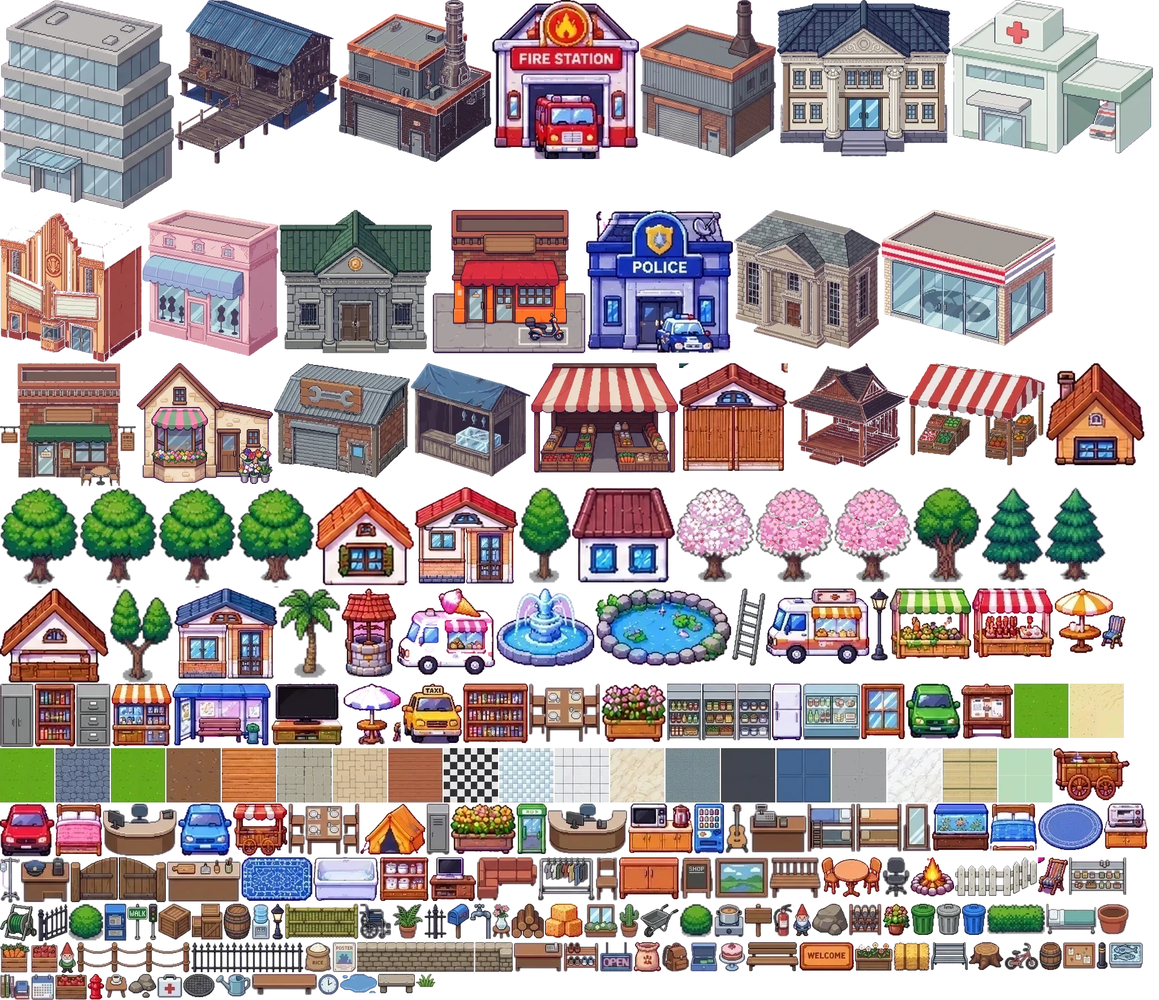
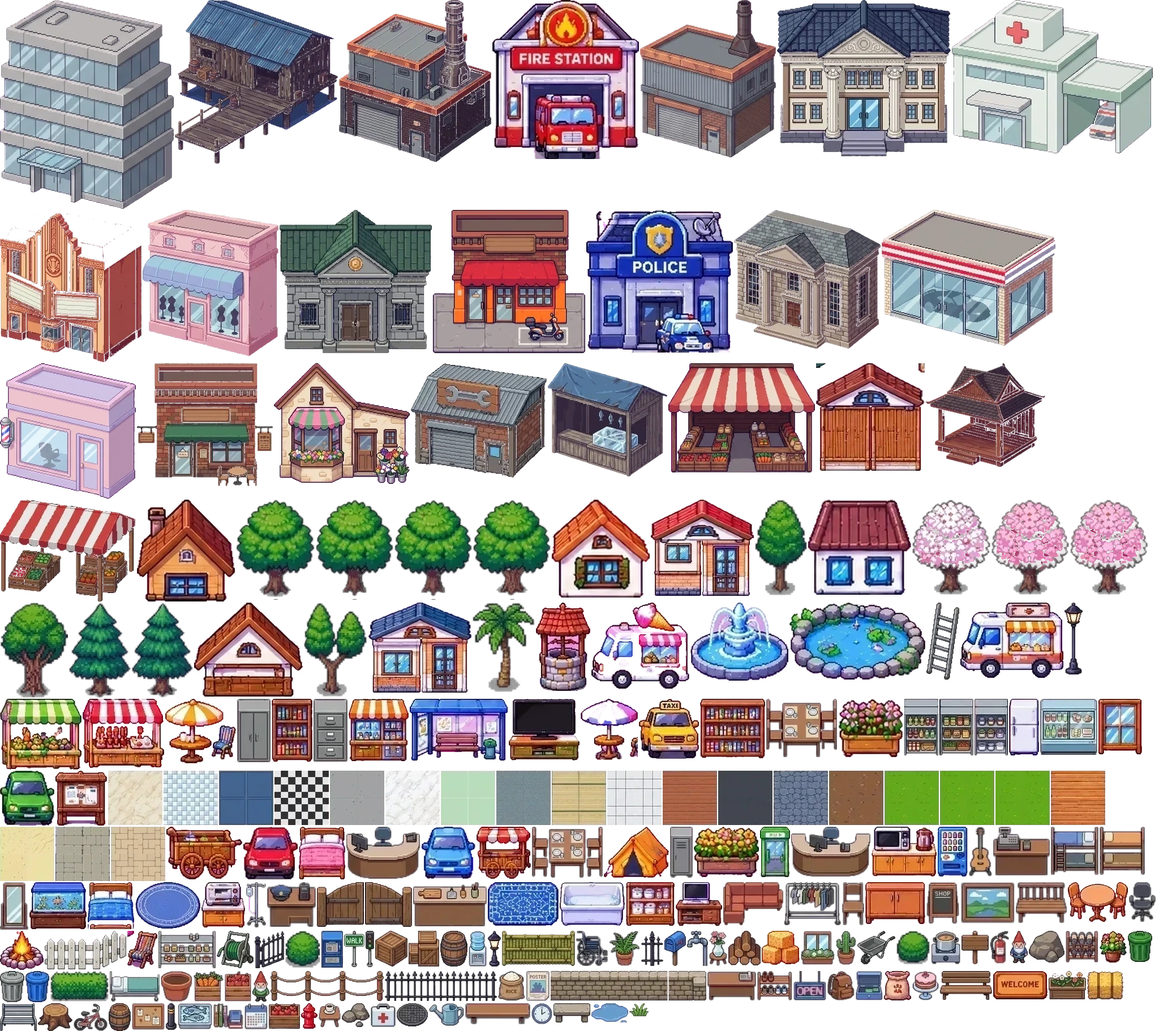
Barber shop back on the map, on the north street beside the cinema; scattered decor avoids building footprints
Claude-Session: https://claude.ai/code/session_011vTRLcvJmqJKhBboYRSi88

diff --git a/server/data.js b/server/data.js
@@ -97,6 +97,7 @@ function pathDown(b, toY) { const cx = Math.floor(b.x + b.w / 2); for (let y = b
   B('police', 'b_police', 18, 13, { label: 'สถานีตำรวจ', icon: '👮', st: 'police' });
   pathDown(B('fire', 'b_fire', 26, 12, { label: 'สถานีดับเพลิง', icon: '🚒', deco: true }), 13);
   B('cinema', 'b_cinema', 35, 13, { label: 'โรงหนัง', icon: '🎬', deco: true, renov: true });
+  B('barber', 'b_salon', 42, 13, { label: 'ร้านตัดผม', icon: '💈', deco: true });            // barber shop on the north street
   B('inn', 'b_library', 58, 13, { label: 'ห้องสมุดเมือง', icon: '📚', deco: true });
   // south-west lane (doors on row 45)
   B('warehouse', 'b_factory', 5, 45, { label: 'คลังสินค้าราคาส่ง', icon: '📦', st: 'warehouse' });
@@ -132,7 +133,7 @@ function pathDown(b, toY) { const cx = Math.floor(b.x + b.w / 2); for (let y = b
   for (const [id, x, y, l] of [['crowd1', 46, 30.5, 'จัตุรัส'], ['crowd2', 66.5, 30.5, 'หน้าตลาด'], ['crowd3', 11, 51.5, 'แผงลอย']])
     STATIONS.push({ id, type: 'crowd', label: `ฝูงชน (${l})`, icon: '👥', x, y, r: 1.4, area: 'town' });
   // a dark alley behind the cinema: where thieves find work
-  prop('barrel2', 42.5, 11.4); prop('crate', 44.2, 10.4); prop('bin_grey', 41.4, 12.2);
+  prop('bin_grey', 41.4, 12.2);   // the barber shop stands where a barrel and a crate used to be
   // street furniture
   for (let x = 6; x < 40; x += 9) prop(x % 2 ? 'lamp' : 'lamp2', x + .5, 34);
   for (let x = 62; x < 92; x += 9) prop(x % 2 ? 'lamp' : 'lamp2', x + .5, 34);
@@ -244,6 +245,7 @@ function scatter(A, kinds, n, flat) {
     const x = A.x + 2 + Math.floor(rand() * (A.w - 4)), y = A.y + 3 + Math.floor(rand() * (A.h - 5));
     let ok = true;
     for (let j = -2; j <= 1 && ok; j++) for (let k = -1; k <= 1; k++) if (!'.m'.includes(get(x + k, y + j) || '#')) { ok = false; break; }
+    if (ok && BUILDINGS.some(b => x >= b.x - 1 && x <= b.x + b.w && y >= b.y - 1 && y <= b.y + b.h + 1)) ok = false;
     if (!ok || STATIONS.some(s => Math.hypot(s.x - x - .5, s.y - y - .5) < 3) || PROPS.some(p => Math.hypot(p.x - x - .5, p.y - y - .5) < 3)) continue;
     prop(kinds[i % kinds.length], x + .5, y + .95, !flat); i++;
   }
